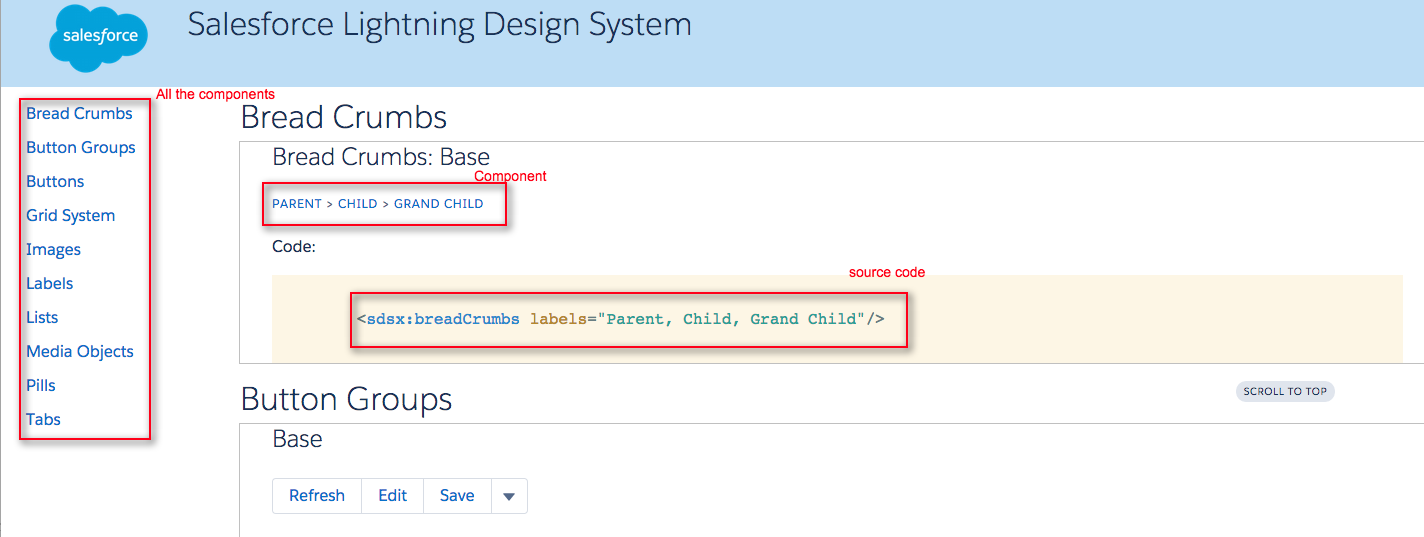
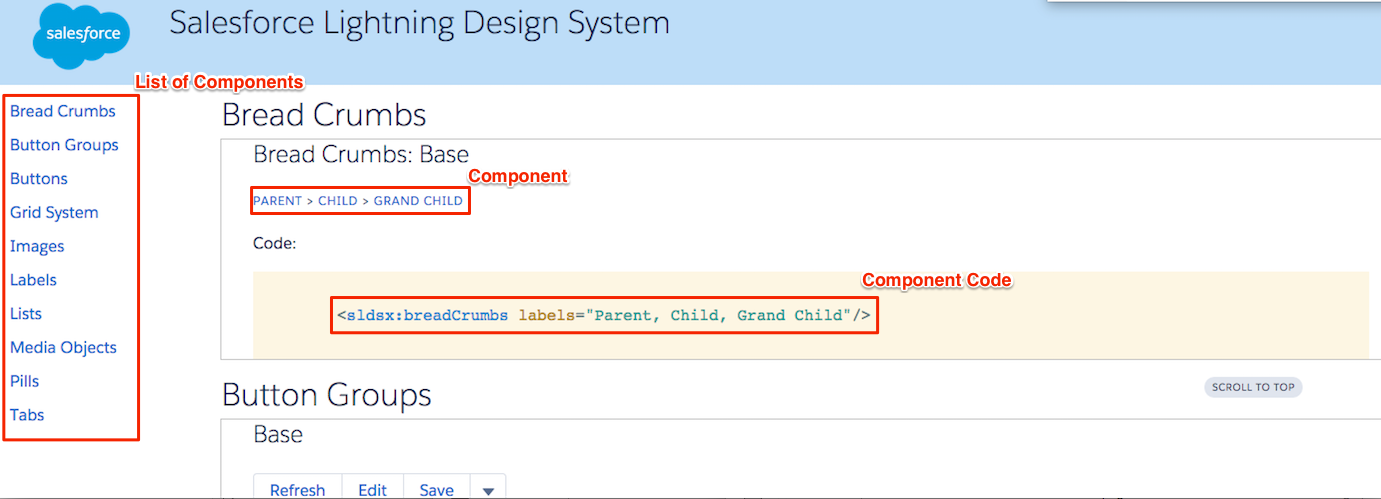
update readme

Changed region(s): [[0.0, 0.0, 1.0, 1.0], [0.7473, 0.0, 1.0, 0.0301]]

diff --git a/tutorial/tutorial.md b/tutorial/tutorial.md
@@ -13,7 +13,7 @@ In this tutorial we'll show how to use SLDS components in a Lightning app.
 2. Go to `Setup > Develop > Lightning Components`
 3. Check `Enable Lightning Components`
 
-![image](https://raw.githubusercontent.com/ForceDotComLabs/sldsx/master/tutorial/enableLightningComponentsPic.png?token=AAmOoQ83GPhZKZVL0OehGs1KF45P-UTVks5Vw5_xwA%3D%3D)
+![image](https://raw.githubusercontent.com/ForceDotComLabs/sldsx/master/tutorial/enableLightningComponentsPic.png?token=AAmOoTbmOidomfsnO1qURbobzN46kf0Iks5Vy5mAwA%3D%3D)
 
 #Step 1 - Installation
 
@@ -29,7 +29,7 @@ SLDS app is a sample app that contains a list of all the SLDSX components and so
 1. Open SLDS.app by changing the url to: [{yourOrg}//{namespace}/SLDS.app](https://login.salesforce.com/c/SLDS.app)
 2. Scroll down or Click on `Buttons`, `Grid System` etc to understand how the SLDSX code look for various elements.
 
-<image src="https://raw.githubusercontent.com/ForceDotComLabs/sldsx/master/slds-app-small.png?token=AAmOoUKiDyKUoD3GGVHOFaCoqGVEKXu8ks5Vv6HUwA%3D%3D"/>
+<image src="https://raw.githubusercontent.com/ForceDotComLabs/sldsx/master/slds-app-small.png?token=AAmOoZ0b2T0P3lRWXQEVQsxziDcEHqiLks5Vy5kkwA%3D%3D"/>
 
 #Step 3 - Browse SLDSX Docs
 Lightning auto-generates documentation for all components based on the source code. Since you installed the SLDSX components package, you'll be able to browse the docs for SLDSX components along with all other components! 
@@ -38,7 +38,7 @@ Lightning auto-generates documentation for all components based on the source co
 2. Click on `Components > SLDSX` to see all the components in `SLDSX` namespace. 
 
 
-<image src="https://raw.githubusercontent.com/ForceDotComLabs/sldsx/master/tutorial/auraDocsPic.png?token=AAmOodKb9rVMTRPyycVSGSWLnTEA7iqZks5Vw7STwA%3D%3D"/>
+<image src="https://raw.githubusercontent.com/ForceDotComLabs/sldsx/master/tutorial/auraDocsPic.png?token=AAmOoRx-WXidbUBSzWY502DgyfTXq_dMks5Vy5mjwA%3D%3D"/>
 
 #Step 4 - Loading SLDS Framework
 `SLDS.app` itself uses a lot of SLDSX components, so you can simply see the source code to get an idea about how you can use various SLDSX components.
@@ -49,7 +49,7 @@ Lightning auto-generates documentation for all components based on the source co
 4. Scroll through the source.
 
 Notice that the code loads SLDS as a static resource and also uses `slds` div parent element to CSS namespace the component so that CSS doesn't bleed into other components. This is how you load SLDS framework into your Lightning app or component.  
-<image src="https://raw.githubusercontent.com/ForceDotComLabs/sldsx/master/tutorial/sldsNSPic.png?token=AAmOocILl68XPbdGeJZF5VtPloyzg1EEks5Vw7TuwA%3D%3D"/>
+<image src="https://raw.githubusercontent.com/ForceDotComLabs/sldsx/master/tutorial/sldsNSPic.png?token=AAmOob3ZEPGQlLCFFzllU46W_0-LKPpzks5Vy5nBwA%3D%3D"/>
 
 Note: You don't need to load it in every component, you just need to load it in the main component or app that has all other components.
 
@@ -66,7 +66,7 @@ Note: You don't need to load it in every component, you just need to load it in 
 	```
 4. Press `Preview` and you'll see:
 
-	![image](https://raw.githubusercontent.com/ForceDotComLabs/sldsx/master/tutorial/buttonPic.png?token=AAmOoSrUeJXezRvpCdsPwl6aYCd_jhXVks5Vw7VCwA%3D%3D)
+	![image](https://raw.githubusercontent.com/ForceDotComLabs/sldsx/master/tutorial/buttonPic.png?token=AAmOobiB9DTurbPar1NRKqgaWgQcz5psks5Vy5nbwA%3D%3D)
 
 
 ##Step 5.1 - Change An Attribute
@@ -79,7 +79,7 @@ Every SLDSX components has multiple attributes that can have various values. Com
 
 4. Press 'Preview` and you'll see:
 
-	![image](https://raw.githubusercontent.com/ForceDotComLabs/sldsx/master/tutorial/buttonBrandPic.png?token=AAmOodeZEuoLBMgroITMhykc5eP7GRw9ks5Vw7VNwA%3D%3D)
+	![image](https://raw.githubusercontent.com/ForceDotComLabs/sldsx/master/tutorial/buttonBrandPic.png?token=AAmOobaya7wUMWtm8D6NmvV6njATRjhDks5Vy5n7wA%3D%3D)
 
 Note: You can use  AuraDocs app (Step 3) to see list of attributes and possible values for each attribute for a given component.
 
@@ -144,25 +144,25 @@ If you want just 1 cell to occupy 1/12 the space, simply use: `1-of-12`. This al
 
 ```
 
-![image](https://raw.githubusercontent.com/ForceDotComLabs/sldsx/master/tutorial/gridSystemPic.png?token=AAmOoYYd25le7hvQNsgV7-qLrxIVzlxmks5VyAMawA%3D%3D)
+![image](https://raw.githubusercontent.com/ForceDotComLabs/sldsx/master/tutorial/gridSystemPic.png?token=AAmOoRlvh2yv8IiBoPpcDX18ZFUzY5XVks5Vy5oewA%3D%3D)
 	
 
 Note: Notice we are also using `wrap=true` attribute. This tells the Grid System to wrap and move the cell to the next row below if there are more cells than it can fit.
 
-![image](https://raw.githubusercontent.com/ForceDotComLabs/sldsx/master/tutorial/wrapPic.png?token=AAmOoQ_t-CEn_0eG_F71LUQHCLOgNQDOks5VyAK3wA%3D%3D)
+![image](https://raw.githubusercontent.com/ForceDotComLabs/sldsx/master/tutorial/wrapPic.png?token=AAmOoZ6dhQzNJUugyqe7qdbWOFhdyeAPks5Vy5o3wA%3D%3D)
 	
 #### Multiple Sizes For Various Screensizes
 In most apps you want to show different number of items depending on the screensize. 
 
 For example, if viewed from a mobile device you may want to show just one cell/item per row, but if viewed from a medium size screen like a tablet, you may want to show 6 cells/items in a single row. And finally if viewed from a large screen, you may want to show 12 cells/items in a single row.
 In Large Screen (e.g. laptops):
-![image](https://raw.githubusercontent.com/ForceDotComLabs/sldsx/master/tutorial/largeScreenPic.png?token=AAmOod5OPF2KCfe_XhFFXOFBxV0tinm8ks5VyANKwA%3D%3D)
+![image](https://raw.githubusercontent.com/ForceDotComLabs/sldsx/master/tutorial/largeScreenPic.png?token=AAmOoaaGHCLJVJ5GXWH4CX1w2mjV-DbZks5Vy5pUwA%3D%3D)
 
 In Medium Screen (e.g. tablets):
-		![image](https://raw.githubusercontent.com/ForceDotComLabs/sldsx/master/tutorial/mdScreenPic.png?token=AAmOocA-UBP9st0rI2m2sFLq8dNT7BwBks5VyANrwA%3D%3D)
+		![image](https://raw.githubusercontent.com/ForceDotComLabs/sldsx/master/tutorial/mdScreenPic.png?token=AAmOoWFHgJAe4VlETcHXwvvB4IenC24vks5Vy5prwA%3D%3D)
 
 In Small Screens (e.g. mobile phones): 		
-![image](https://raw.githubusercontent.com/ForceDotComLabs/sldsx/master/tutorial/smScreenPic.png?token=AAmOoaXkZJm2Ops8ZaKJWPUeqPVHkooTks5VyAPiwA%3D%3D)
+![image](https://raw.githubusercontent.com/ForceDotComLabs/sldsx/master/tutorial/smScreenPic.png?token=AAmOofzz-Rn-TaYbsMUfLFGYk9Z_WU5kks5Vy5qCwA%3D%3D)
 
 Thankfully, Grid System offers small, medium and large size attributes that can be used in this situation.
 In SLDSX components, they correspond to "size", "mdSize" and "lgSize" respectively.
@@ -195,7 +195,7 @@ In SLDSX components, they correspond to "size", "mdSize" and "lgSize" respective
 In this example, we will build a simple Accounts app that shows list of accounts in a table.
 We'll use raw CSS instead of SLDSX components just to show that you can use it directly as well. 
 
-![image](https://raw.githubusercontent.com/ForceDotComLabs/sldsx/master/tutorial/accountsAppPic.png?token=AAmOoSz6452ZSIiTdPkVMsouxEIrJmFJks5VyDpNwA%3D%3D)
+![image](https://raw.githubusercontent.com/ForceDotComLabs/sldsx/master/tutorial/accountsAppPic.png?token=AAmOoQPjlV_js_sfzhu-4jZWkd6yRuekks5Vy5qtwA%3D%3D)
 
 #### Create Accounts Apex Controller
 1. In Developer console, Click on New > Create Apex Class

diff --git a/README.md b/README.md
@@ -7,7 +7,8 @@ SLDSX is an open-source project to provide a set of common Lightning Components 
 Note: All sldsx components use `sldsx` namespace.
 
 #Tutorial
-We've created a tutorial for you to understand how to use it. Please go through the <a href="https://github.com/ForceDotComLabs/sldsx/blob/master/tutorial/tutorial.md" target="_blank">tutorial here</a>.
+We've created a tutorial to explain how to use it. Please go through the <a href="https://github.com/ForceDotComLabs/sldsx/blob/master/tutorial/tutorial.md" target="_blank">tutorial here</a>.
+<image src="https://raw.githubusercontent.com/ForceDotComLabs/sldsx/master/slds-app-small.png?token=AAmOoZ0b2T0P3lRWXQEVQsxziDcEHqiLks5Vy5kkwA%3D%3D"/>
 
 #Installation
 SLDSX is distributed as a unmanaged package. The package has all the components, and latest version of SLDS framework (CSS, fonts, icons etc). To use it, simply install the package, load SLDS static resource and use individual components in your app.
@@ -16,13 +17,13 @@ SLDSX is distributed as a unmanaged package. The package has all the components,
 2. Load SLDS static resource
 
 	```    
-	     <ltng:require styles="/resource/sldsx/assets/styles/salesforce-lightning-design-system-vf.css"/>
+	<ltng:require styles="/resource/sldsx/assets/styles/salesforce-lightning-design-system-vf.css"/>
 
 	```
 	If your org has it's own namespace, for example: `ns` then, append `ns__` to the `sldsx` in the resource path to look like below:
 
 	```    
-	     <ltng:require styles="/resource/ns__sldsx/assets/styles/salesforce-lightning-design-system-vf.css"/>
+	 <ltng:require styles="/resource/ns__sldsx/assets/styles/salesforce-lightning-design-system-vf.css"/>
 
 	```	
 
